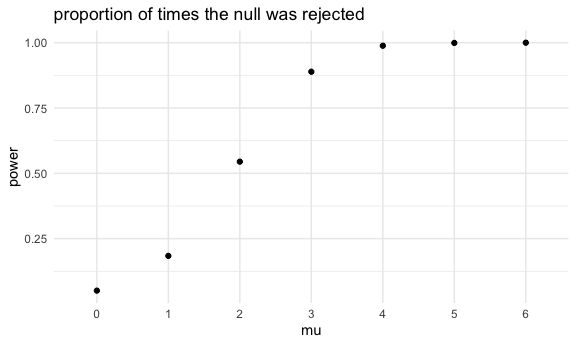
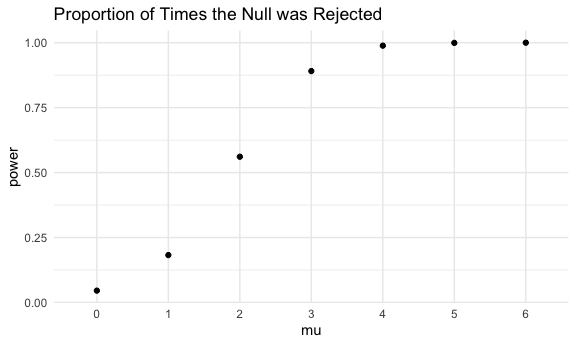
Finished last plots and added description

diff --git a/p8105_hw5_jp3999.md b/p8105_hw5_jp3999.md
@@ -5,14 +5,14 @@ Homework 5
 library(tidyverse)
 ```
 
-    ## ── Attaching packages ───────────────────────────────────────────────────────────────────────────── tidyverse 1.3.0 ──
+    ## ── Attaching packages ───── tidyverse 1.3.0 ──
 
     ## ✓ ggplot2 3.3.2     ✓ purrr   0.3.4
     ## ✓ tibble  3.0.3     ✓ dplyr   1.0.2
     ## ✓ tidyr   1.1.2     ✓ stringr 1.4.0
     ## ✓ readr   1.3.1     ✓ forcats 0.5.0
 
-    ## ── Conflicts ──────────────────────────────────────────────────────────────────────────────── tidyverse_conflicts() ──
+    ## ── Conflicts ──────── tidyverse_conflicts() ──
     ## x dplyr::filter() masks stats::filter()
     ## x dplyr::lag()    masks stats::lag()
 
@@ -474,7 +474,7 @@ bind_rows()
 data_plot1 = 
   bind_rows (output_ttest, .id = "mu")%>%
   select(mu, estimate, p.value) %>%
-mutate (decision = case_when(p.value < 0.05 ~ "Reject", p.value >=0.05 ~ "Fail to Reject")) %>%
+mutate (cutoff = case_when(p.value < 0.05 ~ "Reject", p.value >=0.05 ~ "Fail to Reject")) %>%
 mutate(
 mu = recode (mu, "1" = "0", "2" = "1", "3" = "2", "4" = "3","5" = "4","6" = "5",
 "7" = "6")) 
@@ -486,7 +486,7 @@ data_plot1 %>%
   summarize(
 n = n(),
 power = sum(p.value < 0.05)/n) %>%
-  ggplot(aes(x = mu, y = power)) + geom_line() +geom_point() + labs(title = "proportion of times the null was rejected") 
+  ggplot(aes(x = mu, y = power)) + geom_line() +geom_point() + labs(title = "Proportion of Times the Null was Rejected") 
 ```
 
     ## `summarise()` ungrouping output (override with `.groups` argument)
@@ -499,3 +499,54 @@ power = sum(p.value < 0.05)/n) %>%
 Shown above in the figure we see that as mu increases so does the power.
 This means that the probability of rejecting the null increases as the
 effect size increases.
+
+``` r
+plot_estimate = 
+data_plot1 %>%
+  group_by(mu) %>%
+  summarize(
+    mu_hat = mean(estimate))%>%
+  ggplot(aes(x = mu, y = mu_hat)) + geom_line() + geom_point() + labs(
+    title =  "Plot 1: True Mu by Average Est Mu",
+    x= "true value of μ",
+    y = "average estimate of μ̂"  )
+```
+
+    ## `summarise()` ungrouping output (override with `.groups` argument)
+
+``` r
+plot_avg_estimate = 
+data_plot1 %>%
+  group_by(mu) %>%
+  filter(cutoff=="Reject") %>%
+  summarize(
+    mu_hat = mean(estimate))%>%
+  ggplot(aes(x = mu, y = mu_hat)) + geom_line() +geom_point() + labs(
+    title =  "Plot 2:Null Rejected, True Mu by Average Est Mu,",
+    x= "true value of μ",
+    y = "average estimate of μ̂"  )
+```
+
+    ## `summarise()` ungrouping output (override with `.groups` argument)
+
+Combine plots
+
+``` r
+plot_estimate + plot_avg_estimate 
+```
+
+    ## geom_path: Each group consists of only one observation. Do you need to adjust
+    ## the group aesthetic?
+    ## geom_path: Each group consists of only one observation. Do you need to adjust
+    ## the group aesthetic?
+
+<img src="p8105_hw5_jp3999_files/figure-gfm/unnamed-chunk-19-1.png" width="90%" />
+
+Plot 1 shows the average estimated mu and true value of mu.
+
+Plot 2 shows the average estimated mu and true value of mu for
+observations in which the null was rejected. The sample average of μ̂
+across the tests for which the null is rejected is not approximately
+equal to the true value of μ. This is because as the power decreases the
+average estimates get further away from the true mean and vice versa
+when the power increase.
